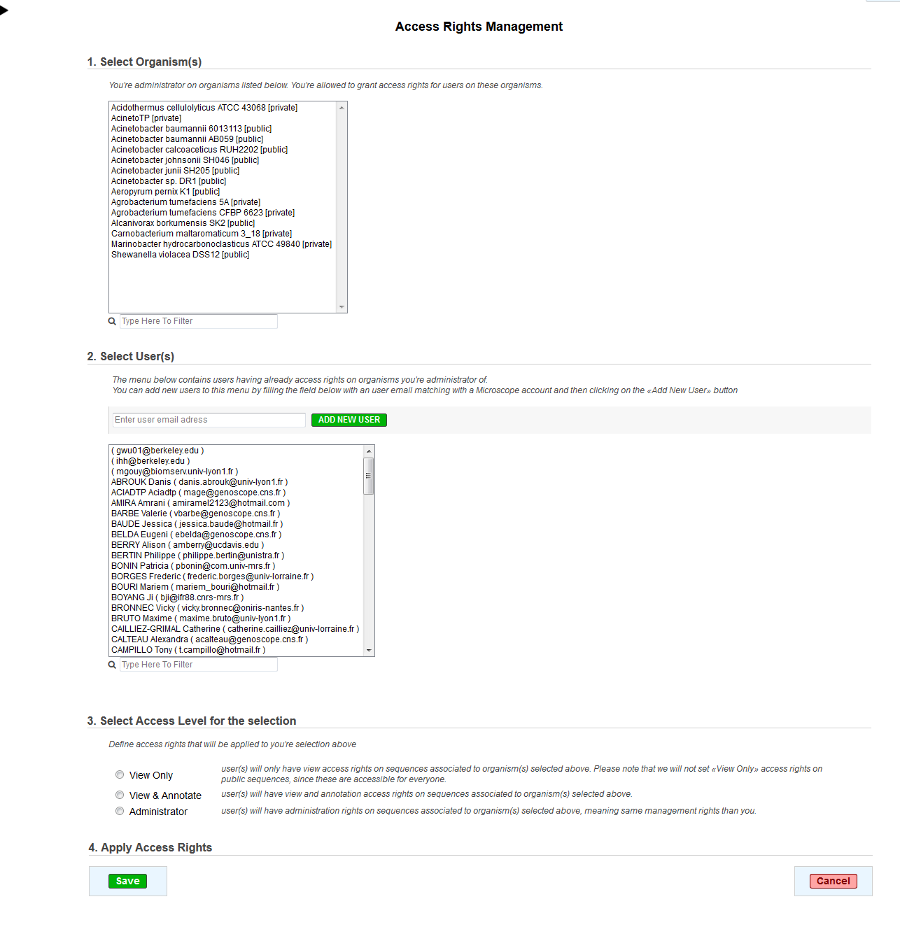
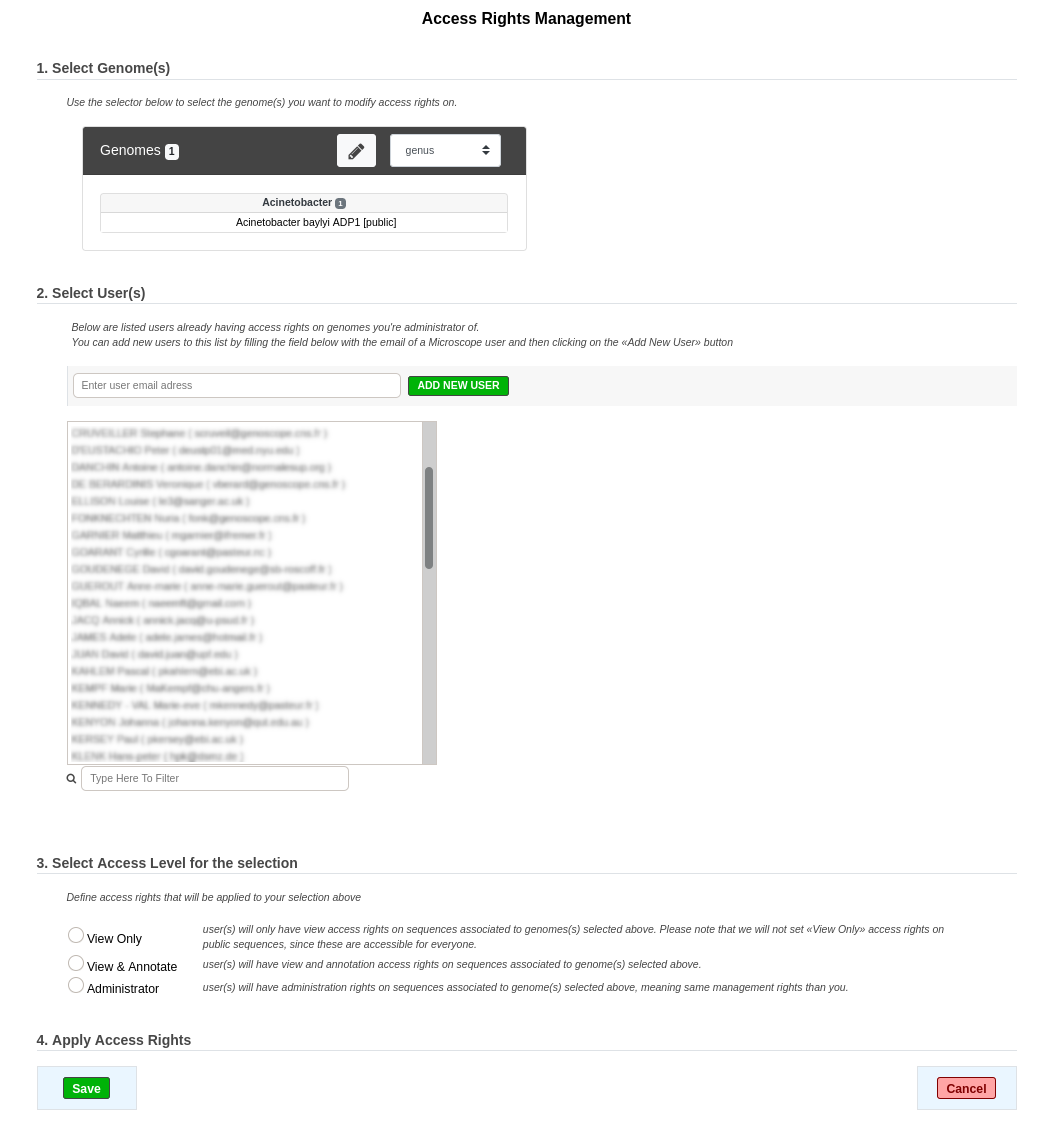
[#8502] Update help on "Manage Access Rights"
Show the advanced selector, typo, clarification, etc.

diff --git a/docs/content/userpanel/manageaccessrights.rst b/docs/content/userpanel/manageaccessrights.rst
@@ -4,9 +4,10 @@
 Access Rights Management
 ########################
 
-This interface is made for« Organism Administrators » and allows management of users access rights on organisms.
+This interface allows the administrators of a genome to manage the access rights.
 
-.. note:: **Only annotators defined as «Organism Administrators» are allowed to use this functionality. By default, «Organism Administrators» are users who submit a Delivery of Service asking for a Genome integration into MicroScope: when the organism is delivered by LABGeM team on the MicroScope platform, the Delivery of service submitter is set with an additional access right, that will allow him to manage access rights of other users on corresponding organisms**
+.. note:: Only annotators defined as « Genome Administrators » are allowed to use this functionality.
+   See below for an explanation of what an administrator is.
 
 
 How to read the interface?
@@ -16,84 +17,99 @@ How to read the interface?
 
 Two display modes are available:
 
-* the first one (default one), «**Order by Organisms**», will display all organisms for which the user have administration rights. Each organism, for which you are administrator, has a status called «**Private**» or «**Public**»:
+* the first one (default), « **Order by Genomes** », will display all genomes for which the user have administration rights.
+  Each genome is either « **Private** » or « **Public** »:
 
-	* «**Public**» status means everyone will have «View Only» access rights on the corresponding organism/sequences in MicroScope. Other access rights, such like «View & Annotate» access rights will need to be granted to users by an administrator.
-	* «**Private**» status means that only people having access rights granted by an administrator will be able to «View» or «Annotate» the organism / sequence.
+	* « **Public** » status means everyone will have « **View Only** » access rights on the corresponding genome/sequences in MicroScope. Other access rights, such like « **View & Annotate** », must be be granted to users by an administrator.
+	* « **Private** » status means that only people having access rights granted by an administrator will be able to view or annotate the genome / sequence.
 
-* the second one, «Order by Users», will list all the users that have access to organisms belonging to the administrator.
+* the second one, « **Order by Users** », will list all the users that have access to genomes belonging to the administrator.
 
-.. note:: «**Private**» or «**Public**» status are currently set by LABGeM team. By default we set the status this way:
+.. note:: status (« **Private** » or « **Public** ») is currently set by LABGeM team. By default we set the status this way:
 
-	* If the organism is a new sequenced one, we will set the status to «**Private**» when we deliver the data on MicroScope, and we will give «Administrator» access level to the submitter of the corresponding Delivery of Service.
-	* If the organism is coming from a public databank (RefSeq sequence, for example), the default status will be «**Public**», and no one will be set as «Administrator», except if you plan to re-annotate the organism (in this case, you have to contact us)
+	* If the genome is a newly sequenced one, we will set the status to « **Private** » when we deliver the data on MicroScope, and we will give « **Administrator** » access rights to the submitter of the corresponding Delivery of Service.
+	* If the genome is coming from a public databank (RefSeq sequence, for example), the default status will be « **Public** », and no one will be set as « **Administrator** », except if you plan to re-annotate the genome (in this case, you have to contact us)
 
-If you click on the *down arrow* on the left of an organism / user name, you will display the details about access rights on this organism / of this user.
+If you click on the *down arrow* on the left of an genome / user name, you will display the details about access rights on this genome / of this user.
 
 
 What are the different Access Rights?
 -------------------------------------
 
-For now, we provide 4 main access rights levels:
+For now, we provide 3 access rights levels:
 
-* «**Administrator**» : this level is the higher one. Administrator will have full management rights on the organism. Administrator will be able to set access rights for other people. Note that you can set several Administrators on a same organism. Also, Administrator have annotation access rights on their organisms.
-* «**View & Annotate**»: users having this access rights level, will only be able to «Annotate» and «View» the organism and the corresponding data on MicroScope.
-* «**View Only**»: this level is the basic one. People having view access rights will not be able to annotate a sequence. Please note that for a «Public» organism, everyone has «View Only» access rights. For «Private» organisms, an administrator will need to give a «View» access rights to users.
-* «**Remove**»: will delete the access rights of a given user.
+* « **View Only** »: this level is the basic one.
+  Users having this access rights will be able to see the genome and the corresponding data on MicroScope but will not be able to annotate a sequence.
+  Please note that for a « **Public** » genome, everyone has the « **View Only** » access right.
+  For « **Private** » genomes, an administrator will need to give a « **View Only** » access rights to users.
+* « **View & Annotate** »: users having this access rights level are able to view the genome and to annotate it.
+* « **Administrator** » : this level is the higher level (users having this right are called « administrators » of the genome).
+  Administrators can annotate a genome and have full management rights on it.
+  Administrators are able to set access rights for other people.
+  Note that you can set several administrators on the same genome.
 
 
 How to Change Access Rights?
 ----------------------------
 
 To change the user access rights, simply select the desired access level from the select menu, then the update will be performed automatically.
+Selecting « **Remove** » will delete all access rights of the given user on this genome.
+For « **Private** » genomes, it means that the user won't be able to see the genome anymore.
 
-* «**Order by Organisms**» View
-
+« **Order by Genomes** » view
+^^^^^^^^^^^^^^^^^^^^^^^^^^^^^
 .. image:: img/man2.png
 
-All users having access to the corresponding organism are grouped by access right level: first, **Administrators**, then users having **View & Annotate** access rights and at the end, users having View Only access rights.
+All users having access to the corresponding genome are grouped by access right level: first, the user having « **Administrator** » access right, then users having « **View & Annotate** » access rights and at the end, users having « **View Only** » access rights.
 
-*Additional data about users are also available:*
+Additional data about users are also available:
 
-	* *User name*
-	* *User email*
-	* *User account creation date*
-	* *User last login date on MicroScope (and not necessarily on the organism you are looking at)*
-	* *the last date the user access rights has been modified by an administrator*
+	* User name
+	* User email
+	* User account creation date
+	* Last login date on MicroScope (not necessarily on the genome you are looking at)
+	* Last date the user access rights has been modified by an administrator
 
-* «**Order by Users**» View
+« **Order by Users** » view
+^^^^^^^^^^^^^^^^^^^^^^^^^^^
 
 .. image:: img/man3.png
 
-For a given user, will be listed all the organisms for which:
+For a given user, will be listed all the genomes for which:
 
 	* user have access rights
 	* you have administrator access level
 
-Please note that an user may have also access rights for organisms you are not administrator of. In this case, corresponding organisms will not be displayed.
+Please note that an user may have also access rights for genomes you are not administrator of.
+In this case, corresponding genomes will not be displayed.
 
-*Additional data are also available:*
+Additional data are also available:
 
-	* *Organism name*
-	* *related sequences (chromosomes, plasmids)*
-	* *Organism status (private/public)*
-	* *the last date the user access rights has been modified by an administrator*
+	* Genome name
+	* Related sequences (chromosomes, plasmids)
+	* Genome status (« **Private** »/« **Public** »)
+	* The last date the user access rights has been modified by an administrator
 
-.. note:: There is some restrictions about access rights an administrator can select:
+.. note:: There are some restrictions about the access rights an administrator can select:
 
 	* an administrator can not change is own access rights. If an administrator, for some reasons, wants to drop his access level, he will need to set administrator access rights to another user. Then, this user will be allowed to drop the access level of the first administrator.
-	* an administrator can not set a «View Only» access right to users on «Public» organisms, since these organisms are accessible for everyone.
+	* an administrator can not set a « **View Only** » access right to users on « **Public** » genomes, since those genomes are accessible for everyone.
 	
 	
 How to give Access Rights to a new user?
 ----------------------------------------
 
-To add new access rights to a new user, or set a same access rights to several organisms or users, click on the green button called «**+ Add New Access Rights**»
-
-Then, you will be redirected into another interface with 3 steps:
+To add new access rights to a new user or set a same access rights to several genomes or users, click on the green button called « **+ Add New Access Rights** ».
+You will be redirected into another interface with 3 steps:
 
 .. image:: img/man4.png
 
-* **Step 1**: this menu will list all the organisms you are administrator of. Select all the organisms for which you want to grant access rights.
-* **Step 2**: this menu will list all the users that currently have access rights on the organisms you are administrator of. Select all the users for who you want to update access rights. If an user is missing in this list, you can add him by filling the upper field and click on «**ADD NEW USER**» button. You will have to **fill the field with the user email address used for his account creation**. So, be sure that people have already a MicroScope account before trying to give them access rights on your organisms.
-* **Step 3**: select the access level you want to give to your selection. Then save.
+* **Step 1**: this advanced selector will list all the genomes you are administrator of.
+  Use it to select all the genomes for which you want to grant access rights.
+  In the example, « Acinetobacter baylyi ADP1 » has been selected.
+* **Step 2**: this list contains all the users that currently have access rights on the genomes you are administrator of (the names have been blurred in the example).
+  Select all the users for who you want to update access rights.
+  If a user is missing in this list, you can add him by filling the upper field and click on « **ADD NEW USER** » button.
+  You will have to **fill the field with the user email address used for his account creation**.
+  So, be sure that people have already a MicroScope account before trying to give them access rights on your genomes.
+* **Step 3**: select the access level you want to give to your selection and save.
